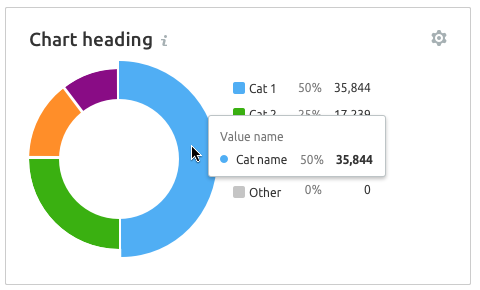
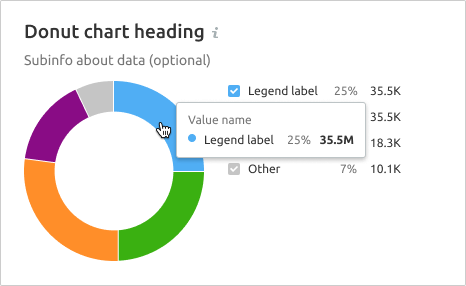
[Donut chart] Update illustrations for states

Changed region(s): [[0.0, 0.0, 1.0, 1.0], [0.9013, 0.1119, 0.9313, 0.1678]]

diff --git a/website/docs/data-display/donut-chart/donut-chart.md b/website/docs/data-display/donut-chart/donut-chart.md
@@ -141,9 +141,9 @@ If the category names in the legend are very long, they can be displayed in full
 |             | Apperance examples                                        | Styles                                                                                                                                                                                                                                                                         |
 | ----------- | --------------------------------------------------------- | ------------------------------------------------------------------------------------------------------------------------------------------------------------------------------------------------------------------------------------------------------------------------------ |
 | **default** | ![donut in default state](static/donut-big.png)           |                                                                                                                                                                                                                                                                                |
-| **hover**   | ![donut with hover state](static/donut-hover-big.png)     | When hovering over a sector, the `outerRadius` increases by 8px.                                                                                                                                                                                                               |
+| **hover**   | ![donut with hover state](static/donut-hover-big.png)     | When hovering over a sector, the cursor changes to `pointer`.                                                                                                                                                                                                                  |
 |             | ![donut with hover state](static/donut-hover-small.png)   |                                                                                                                                                                                                                                                                                |
-| **active**  | ![donut with active state](static/donut-active-big.png)   | The active sector of the circle shall be in the hover state (`outerRadius` increased by 8px).                                                                                                                                                                                  |
+| **active**  | ![donut with active state](static/donut-active-big.png)   | The active sector of the circle shall be with `outerRadius` increased by 8px.                                                                                                                                                                                                  |
 |             | ![donut with active state](static/donut-active-small.png) | The cursor changes to pointer when hovering over a sector. All other sectors will be 30% transparent (see [Variables](/style/variables)). `outerRadius` increases by 8px when hovering over it. In the legend, the elements related to other sectors are also 30% transparent. |
 
 @## Tooltip
